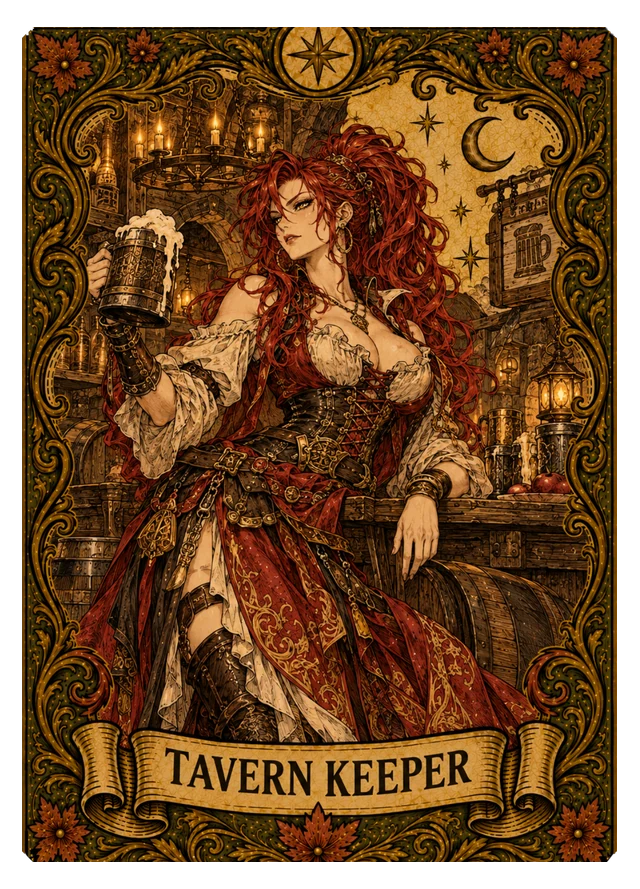
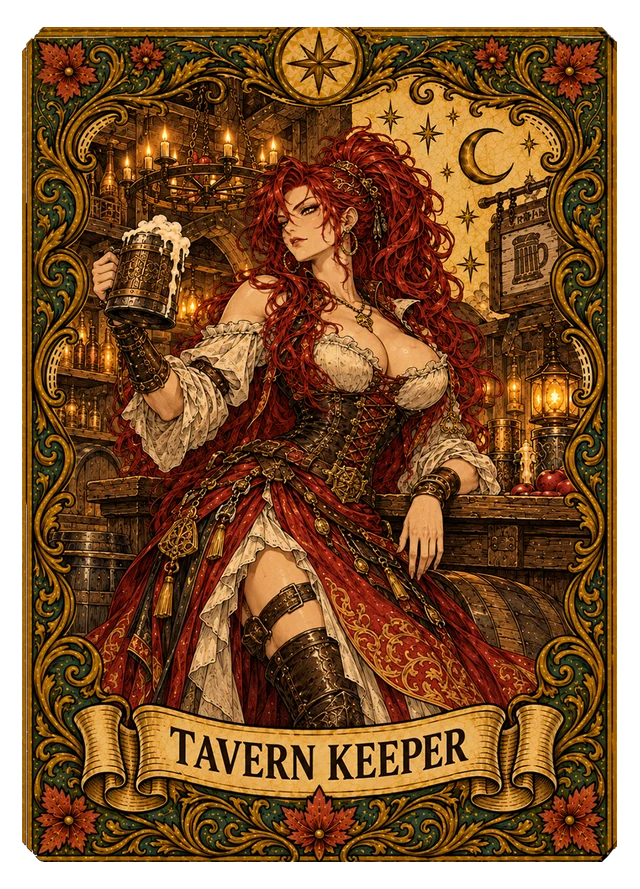
v0.1.33 役「語り部」・酒場の女主人の絵

diff --git a/game/index.html b/game/index.html
@@ -4463,7 +4463,7 @@ img[src*="ゼネラルデビル"]{object-fit:fill!important;}
 </div>
 <script>
 (function(){
-  var A=["エフェクト/アルテマ/アルテマ２.webp", "エフェクト/アルテマ/アルテマ４.webp", "snd/66bdbf996d6cb89f.dat", "snd/a22dc2e6825465bc.dat", "エフェクト/アルテマ/アルテマ１.webp", "エフェクト/幻惑の蝶.webp", "エフェクト/アルテマ/アルテマ６.webp", "snd/d43d4d6e9fcc1be9.dat", "snd/61b5c1a873526a98.dat", "エフェクト/裁きの光.webp", "エフェクト/フェニックスファイア.webp", "エフェクト/アルテマ/アルテマ３.webp", "エフェクト/奇跡の光.webp", "snd/4ab88b62a8894271.dat", "snd/6d933197c4af6542.dat", "エフェクト/ビッグバンアタック.webp", "エフェクト/雷神の怒り.png", "snd/3925a81f83d8717b.dat", "snd/bdfa9e7ff2c87b50.dat", "snd/e9b61d8ccc4d2ce0.dat", "エフェクト/アルテマ/アルテマ５.webp", "エフェクト/メガフレア.png", "魔法/フルボルト.webp", "魔法/ディアンシア.webp", "バトルフィールドパーツ/召喚獣カード裏面png.webp", "snd/f8ff206425289e0a.dat", "魔法/ノクスグラヴィス.webp", "魔法/ヘイスト.webp", "魔法/メテオ.webp", "魔法/アレア・ヤクタ.webp", "魔法/ポイズン.webp", "snd/de97ea20905d2666.dat", "魔法/デス.webp", "魔法/ヴォルト.webp", "snd/c2adf2730c818089.dat", "魔法/ルミナ.webp", "魔法/リザレイヤ.webp", "魔法/リザレク.webp", "エフェクト/絶対零度.png", "魔法/ヴァニシア.webp", "エフェクト/エクスプロージョン.png", "バトルフィールドパーツ_v3/モンスターカード置き場　赤向き.png", "バトルフィールドパーツ_v3/モンスターカード置き場　青向き.png", "snd/9426ddb5687c23c0.dat", "バトルフィールドパーツ_v3/player_monsters.png", "魔法/バイオラパフューム.webp", "UI素材/デッキ編成イメージ.webp", "魔法/グラシア.webp", "snd/7be132eebf812c2a.dat", "バトルフィールドパーツ_v3/enemy_monsters.png", "UI素材/編成/背景.webp", "魔法/ノクターン.webp", "魔法/イグニス.webp", "魔法/パラメディア.webp", "魔法/リザー.webp", "エフェクト/輝きに帰す.png", "バトルフィールドパーツ/マジックカード裏面.webp", "バトルフィールドパーツ_v2_clean/enemy_monsters.png", "バトルフィールドパーツ/画面背景.webp", "魔法/メディア.webp", "エフェクト/振り払い攻撃.png", "エフェクト/爆裂.png", "バトルフィールドパーツ_v3/grave_blue_cropped.webp", "エフェクト/光あれ.png", "エフェクト/ファイガ.png", "snd/84e3430f81b81b60.dat", "バトルフィールドパーツ_v3/crystal_frame_blue_user.webp", "エフェクト/大海嘯.png", "バトルフィールドパーツ_v3/crystal_core_blue_user.png", "バトルフィールドパーツ_v2_clean/player_monsters.png", "バトルフィールドパーツ_v3/crystal_frame_red_user.webp", "エフェクト/アースウォール.png", "バトルフィールドパーツ_v3/grave_red_cropped.webp", "バトルフィールドパーツ/UIフレーム青.webp", "バトルフィールドパーツ_v3/モンスターカードデッキ置き場　赤.webp", "エフェクト/ブリザガ.png", "バトルフィールドパーツ_v2_clean/stage_bg.webp", "バトルフィールドパーツ/召喚獣召喚場所赤.webp", "バトルフィールドパーツ_v3/モンスターカードデッキ置き場　青.webp", "バトルフィールドパーツ/モンスターカード裏面.webp", "バトルフィールドパーツ_v3/crystal_core_red_user　毒状態.png", "UI素材/ダイストレイ.webp", "バトルフィールドパーツ_v3/crystal_core_red_user.png", "バトルフィールドパーツ_v3/crystal_core_red_user毒状態.png", "バトルフィールドパーツ_v3/stage_bg.webp", "バトルフィールドパーツ/UIフレーム赤.webp", "バトルフィールドパーツ/召喚獣召喚場所青.webp", "カード絵_表示用/モンスター/ジュエルフィッシュ.webp", "カード絵_表示用/モンスター/クリスタルドラゴン.webp", "カード絵_表示用/モンスター/デスクラブ.webp", "カード絵_表示用/モンスター/ドラゴンベビー.webp", "エフェクト/ブリザラ.png", "カード絵_表示用/モンスター/メタルドラゴン.webp", "カード絵_表示用/召喚獣/雷帝.webp", "カード絵_表示用/モンスター/アクアキャット.webp", "カード絵_表示用/モンスター/シールドコア.webp", "カード絵_表示用/召喚獣/フェンリル.webp", "カード絵_表示用/召喚獣/シヴァ.webp", "カード絵_表示用/モンスター/ブラックロブスター.webp", "カード絵_表示用/召喚獣/パルテナス.webp", "カード絵_表示用/召喚獣/グリンブルスティ.webp", "カード絵_表示用/モンスター/混沌の竜.webp", "カード絵_表示用/モンスター/ビッグタスク.webp", "カード絵_表示用/モンスター/ダブルヘッド.webp", "カード絵_表示用/モンスター/イージスの盾.webp", "カード絵_表示用/モンスター/スパイダー.webp", "カード絵_表示用/モンスター/人魚.webp", "カード絵_表示用/モンスター/ダイヤ.webp", "カード絵_表示用/モンスター/魔王鯨.webp", "カード絵_表示用/モンスター/ボムバレル.webp", "snd/3dfb76463e4c13d9.dat", "カード絵_表示用/モンスター/槍烏賊.webp", "カード絵_表示用/召喚獣/ガルーダ.webp", "カード絵_表示用/モンスター/鍛冶士.webp", "カード絵_表示用/モンスター/村正.webp", "UI素材/役の掲示板.webp", "snd/bdd6c1deb5c96c95.dat", "カード絵_表示用/モンスター/裁定者の杖.webp", "カード絵_表示用/モンスター/海洋騎士.webp", "カード絵_表示用/モンスター/ヒドラ.webp", "カード絵_表示用/モンスター/イエティ.webp", "カード絵_表示用/モンスター/パラディン.webp", "カード絵_表示用/モンスター/バジリスク.webp", "カード絵_表示用/モンスター/老人.webp", "カード絵_表示用/召喚獣/イフリート.webp", "カード絵_表示用/召喚獣/カーバンクル.webp", "カード絵_表示用/モンスター/スラブ.webp", "カード絵_表示用/モンスター/ロイヤルガード.webp", "カード絵_表示用/モンスター/小隊.webp", "カード絵_表示用/モンスター/ロック.webp", "カード絵_表示用/モンスター/コカトリス.webp", "カード絵_表示用/モンスター/サーベルタイガー.webp", "カード絵_表示用/召喚獣/リヴァイアサン.webp", "カード絵_表示用/モンスター/弓兵.webp", "カード絵_表示用/モンスター/賢者.webp", "カード絵_表示用/モンスター/クイーン.webp", "カード絵_表示用/モンスター/ワイバーンナイト.webp", "カード絵_表示用/モンスター/ビッグマウス.webp", "カード絵_表示用/モンスター/悪魔騎士.webp", "カード絵_表示用/モンスター/コボルト.webp", "カード絵_表示用/モンスター/鋼鉄巨人.webp", "カード絵_表示用/モンスター/スペード.webp", "カード絵_表示用/モンスター/料理人.webp", "カード絵_表示用/モンスター/クラーケン.webp", "カード絵_表示用/モンスター/ドラゴンスレイブ.webp", "カード絵_表示用/召喚獣/バハムート.webp", "カード絵_表示用/モンスター/ラミア.webp", "カード絵_表示用/召喚獣/セイレーン.webp", "カード絵_表示用/召喚獣/フェニックス.webp", "カード絵_表示用/モンスター/ベヒモス.webp", "カード絵_表示用/モンスター/ミミック.webp", "カード絵_表示用/モンスター/ドラゴンソルジャー.webp", "カード絵_表示用/モンスター/グラッジ.webp", "カード絵_表示用/モンスター/侍祭.webp", "カード絵_表示用/モンスター/ゴーレム.webp", "カード絵_表示用/モンスター/ハーピー.webp", "カード絵_表示用/モンスター/王子.webp", "カード絵_表示用/モンスター/ポークフィッシュ.webp", "カード絵_表示用/モンスター/キング.webp", "カード絵_表示用/モンスター/サイクロプス.webp", "カード絵_表示用/モンスター/悪魔.webp", "カード絵_表示用/モンスター/ミノタウロス.webp", "カード絵_表示用/モンスター/ジャック.webp", "カード絵_表示用/モンスター/メガロドン.webp", "カード絵_表示用/召喚獣/タイタン.webp", "エフェクト/フラッシュインパクト.png", "カード絵_表示用/モンスター/ソードフィッシュ.webp", "カード絵_表示用/モンスター/教皇.webp", "カード絵_表示用/モンスター/グリフォン.webp", "カード絵_表示用/モンスター/元老院.webp", "カード絵_表示用/モンスター/ラードフィッシュ.webp", "カード絵_表示用/モンスター/グリーンジャム.webp", "カード絵_表示用/モンスター/シップワーム.webp", "カード絵_表示用/モンスター/ハート.webp", "カード絵_表示用/モンスター/フラワーマンティス.webp", "カード絵_表示用/モンスター/クラブ.webp", "カード絵_表示用/モンスター/用心棒.webp", "カード絵_表示用/モンスター/アイススコーピオン.webp", "カード絵_表示用/モンスター/ヴェアウルフ.webp", "カード絵_表示用/モンスター/狼.webp", "カード絵_表示用/モンスター/モササウルス.webp", "カード絵_表示用/モンスター/スケルトン.webp", "カード絵_表示用/モンスター/騎士.webp", "カード絵_表示用/モンスター/カエル王子.webp", "カード絵_表示用/モンスター/噛みつき貝.webp", "カード絵_表示用/モンスター/サキュバス.webp", "カード絵_表示用/モンスター/ゴッドヘラクレス.webp", "カード絵_表示用/モンスター/ゾンビ.webp", "カード絵_表示用/モンスター/アイシクルトゥース.webp", "カード絵_表示用/モンスター/墓荒らし.webp", "カード絵_表示用/モンスター/木葉鴉.webp", "カード絵_表示用/モンスター/ブラックナイト.webp", "カード絵_表示用/モンスター/パン職人.webp", "カード絵_表示用/モンスター/邪教徒.webp", "カード絵_表示用/モンスター/デュラハン.webp", "カード絵_表示用/モンスター/グリモア.webp", "カード絵_表示用/モンスター/マンティコア.webp", "カード絵_表示用/召喚獣/ディスティ.webp", "カード絵_表示用/モンスター/戦士.webp", "カード絵_表示用/モンスター/運命の双子.webp", "カード絵_表示用/モンスター/宰相.webp", "カード絵_表示用/モンスター/オーク.webp", "カード絵_表示用/モンスター/忍者.webp", "カード絵_表示用/モンスター/浪人.webp", "カード絵_表示用/モンスター/フロッグ.webp", "カード絵_表示用/モンスター/フレイムフライ.webp", "カード絵_表示用/モンスター/スカウト.webp", "カード絵_表示用/モンスター/マイコニド.webp", "カード絵_表示用/モンスター/ブラックゴブリン.webp", "カード絵_表示用/モンスター/モンク僧.webp", "カード絵_表示用/モンスター/僧侶.webp", "カード絵_表示用/モンスター/ドラゴン.webp", "カード絵_表示用/モンスター/ギガス.webp", "カード絵_表示用/モンスター/キメラ.webp", "カード絵_表示用/モンスター/ポセイドン.webp", "カード絵_表示用/モンスター/渡世人.webp", "カード絵_表示用/モンスター/両替商.webp", "カード絵_表示用/モンスター/ゴリアテ.webp", "カード絵_表示用/モンスター/海賊.webp", "カード絵_表示用/モンスター/マンドラゴラ.webp", "カード絵_表示用/モンスター/僧騎士.webp", "カード絵_表示用/モンスター/剣闘士.webp", "カード絵_表示用/モンスター/酒場.webp", "カード絵_表示用/モンスター/キラービー.webp", "カード絵_表示用/モンスター/海藻魚.webp", "カード絵_表示用/モンスター/ユニコーン.webp", "カード絵_表示用/モンスター/装甲海月.webp", "カード絵_表示用/モンスター/雷熊.webp", "カード絵_表示用/モンスター/エルフ.webp", "カード絵_表示用/モンスター/ケルベロス.webp", "カード絵_表示用/モンスター/ヴァンパイア.webp", "カード絵_表示用/モンスター/ゴースト.webp", "カード絵_表示用/モンスター/傭兵.webp", "カード絵_表示用/モンスター/ソードダンサー.webp", "カード絵_表示用/召喚獣/オーディン.webp", "カード絵_表示用/モンスター/アスピス.webp", "カード絵_表示用/モンスター/ナイトメア.webp", "カード絵_表示用/モンスター/吟遊詩人.webp", "カード絵_表示用/モンスター/剣聖.webp", "カード絵_表示用/モンスター/レッドオルカ.webp", "カード絵_表示用/モンスター/トライデントソルジャー.webp", "snd/24fe8a158f450ac9.dat", "カード絵_表示用/モンスター/狂王.webp", "カード絵_表示用/モンスター/蝙蝠.webp", "カード絵_表示用/モンスター/剣士.webp", "カード絵_表示用/モンスター/ワイバーン.webp", "カード絵_表示用/モンスター/アサシン.webp", "カード絵_表示用/モンスター/シーフ.webp", "カード絵_表示用/モンスター/侍.webp", "カード絵_表示用/モンスター/ジョーカー.webp", "カード絵_表示用/モンスター/ホワイトスティングレイ.webp", "カード絵_表示用/モンスター/黒魔道士.webp", "カード絵_表示用/モンスター/ハンタークロウ.webp", "カード絵_表示用/モンスター/聖剣と邪剣.webp", "カード絵_表示用/モンスター/リザードマン.webp", "カード絵_表示用/モンスター/ゴブリン.webp", "カード絵_表示用/モンスター/ゼネラルデビル.webp", "UI素材/役の掲示板_相手側.webp", "カード絵_表示用/モンスター/女傑.webp", "UI素材/編成/革の本.webp", "カード絵_表示用/モンスター/マンイーター.webp", "カード絵_表示用/モンスター/ダークエルフ.webp", "カード絵_表示用/モンスター/ドラグナイト.webp", "エフェクト/サンダガ.png", "カード絵_表示用/モンスター/武器商人.webp", "snd/e41d7b9053eebe59.dat", "snd/b498b06852fb837e.dat", "エフェクト/呪いの炎大.png", "バトルフィールドパーツ_v2_clean/player_beast.png", "バトルフィールドパーツ_v2_clean/enemy_beast.png", "エフェクト/呪いの炎.png", "snd/f42cdec5fecb290b.dat", "snd/7dcea7d0d8c922fb.dat", "UI素材/案内人.webp", "snd/50533caf4a56a23c.dat", "エフェクト/爆発.png", "snd/d3f0be377b3398fe.dat", "バトルフィールドパーツ/墓場青.webp", "エフェクト/コウモリ.png", "snd/9acb984519a54d5a.dat", "エフェクト/召喚.png", "UI素材/編成/紋章_聖遺物.webp", "エフェクト/バイオ.png", "バトルフィールドパーツ/墓場赤.webp", "エフェクト/セイレーンの歌.png", "snd/59c039fbe9b3249f.dat", "snd/223daceb87cd9b54.dat", "snd/4a1e824ac68257e0.dat", "エフェクト/魅了大.png", "エフェクト/魔法陣大.png", "バトルフィールドパーツ/召喚ポイント.webp", "snd/bf54a9b4e24951af.dat", "snd/391476c216cbdfc3.dat", "バトルフィールドパーツ_v3/turn_panel.png", "snd/5e6bb7d9ee87a9f1.dat", "snd/7f94a67555c69c89.dat", "snd/23274fcb86eced08.dat", "snd/92587da5eb7dbd71.dat", "snd/d85f9db258d57ba9.dat", "snd/7600d234921fe85f.dat", "snd/c1f83e2b0225bb59.dat", "UI素材/編成/紋章_召喚獣.webp", "snd/1835c81d91f0b9a4.dat", "snd/94de4b957e9a1169.dat", "UI素材/召喚ダイヤ.webp", "snd/1d9a4b30f46e5c87.dat", "UI素材/編成/紋章_魔族.webp", "UI素材/編成/紋章_汚染海洋生態.webp", "エフェクト/氷撃.png", "UI素材/編成/紋章_竜.webp", "バトルフィールドパーツ_v2_clean/battle_line.png", "snd/c57272c3b6b1b528.dat", "UI素材/編成/紋章_魔法.webp", "snd/746f706b9f258b92.dat", "バトルフィールドパーツ_v2_clean/player_grave.png", "snd/c994c87ee121c801.dat", "UI素材/バトルログ枠.webp", "UI素材/編成/紋章_在野.webp", "バトルフィールドパーツ_v2_clean/enemy_grave.png", "UI素材/編成/紋章_ハイランド王国.webp", "snd/5c5fa5fdb13fde5e.dat", "snd/c8112faba1c41e5d.dat", "snd/96dedfa9f70fe959.dat", "UI素材/編成/紋章_暗黒生態系.webp", "snd/5d247460b823e51f.dat", "クリスタルカードバトル　ロゴ.webp", "snd/114bb9b18528635c.dat", "UI素材/案内人表情9.png", "エフェクト/牙攻撃.png", "UI素材/案内人表情6.png", "UI素材/案内人表情4.png", "エフェクト/爆発大.png", "UI素材/案内人表情8.png", "UI素材/案内人表情7.png", "バトルフィールドパーツ_v3/summon_pt_red.png", "バトルフィールドパーツ_v3/summon_pt_blue.png", "エフェクト/デス.png", "UI素材/案内人表情3.png", "エフェクト/叩きつけ攻撃.png", "UI素材/案内人表情２.png", "snd/8909158ced6cb604.dat", "snd/8fc60c9b90054ba4.dat", "UI素材/案内人表情1.png", "バトルフィールドパーツ_v2_clean/enemy_crystal.png", "snd/146218ef5f2e709c.dat", "UI素材/案内人表情5.png", "snd/926c3771d534e2f1.dat", "snd/3d14f1a2bf0f7147.dat", "バトルフィールドパーツ_v2_clean/win_condition.png", "snd/b091ee1d4706148b.dat", "エフェクト/爆破小.png", "snd/80708684254d0e65.dat", "エフェクト/幻惑.png", "snd/19bbf517de067643.dat", "snd/03125cf14a04d2dc.dat", "snd/318ea614b4c37f56.dat", "バトルフィールドパーツ_v2_clean/player_crystal.png", "バトルフィールドパーツ_v2_clean/icon_help.png", "エフェクト/落下大.png", "エフェクト/アレイズ.png", "ダイスコマ/roll/dice_roll_03.png", "snd/3c08acaad7a8901f.dat", "ダイスコマ/roll/dice_roll_02.png", "バトルフィールドパーツ/ターン情報エリア.webp", "ダイスコマ/dice3.png", "ダイスコマ/roll/dice_roll_04.png", "ダイスコマ/roll/dice_roll_05.png", "ダイスコマ/dice4.png", "snd/f7ba7bd24a2db56a.dat", "バトルフィールドパーツ_v2_clean/enemy_deck.png", "ダイスコマ/roll/dice_roll_06.png", "エフェクト/ファイラ.png", "ダイスコマ/dice2.png", "ダイスコマ/roll/dice_roll_07.png", "ダイスコマ/roll/dice_roll_11.png", "ダイスコマ/roll/dice_roll_09.png", "ダイスコマ/roll/dice_roll_01.png", "ダイスコマ/dice6.png", "ダイスコマ/roll/dice_roll_15.png", "ダイスコマ/dice1.png", "ダイスコマ/roll/dice_roll_08.png", "エフェクト/ゴブリンパンチ.png", "ダイスコマ/roll/dice_roll_12.png", "ダイスコマ/roll/dice_roll_10.png", "ダイスコマ/dice5.png", "ダイスコマ/roll/dice_roll_16.png", "ダイスコマ/roll/dice_roll_13.png", "ダイスコマ/roll/dice_roll_14.png", "エフェクト/サンダー.png", "バトルフィールドパーツ_v3/battle_line.png", "バトルフィールドパーツ_v2_clean/player_deck.png", "snd/d8dc24bd985f10c6.dat", "エフェクト/爪攻撃.png", "snd/71bc404885817485.dat", "snd/4cdaefeb1270d665.dat", "snd/a1a7b726f6ad2a6f.dat", "snd/2c206ef899e4d954.dat", "エフェクト/ロック.png", "snd/e717c5b18648cecd.dat", "snd/0bffd2dd47134231.dat", "snd/8ed8748cbc90d772.dat", "snd/e1f00c74eef33f2f.dat", "snd/efee6ec35f0ad94d.dat", "エフェクト/魔法陣小.png", "snd/d02bddb5f6177e4b.dat", "バトルフィールドパーツ_v2_clean/crystal_core_blue.png", "エフェクト/魅了.png", "エフェクト/ブリザド.png", "snd/96b0ce71fd2efeb1.dat", "バトルフィールドパーツ_v2_clean/turn_info.png", "エフェクト/ケアルラ.png", "バトルフィールドパーツ_v2_clean/crystal_core_red.png", "snd/d5df5526d62e56ad.dat", "snd/1752eb06109842d0.dat", "snd/00868245bd12532f.dat", "snd/91715e6883ba3a8c.dat", "snd/70780db9dd6fa7c8.dat", "snd/a3b1cdc0802f5460.dat", "UI素材/編成/開始.webp", "エフェクト/リジェネ.png", "UI素材/編成/戻る.webp", "snd/e086cd19e4c98a9a.dat", "エフェクト/ファイア.png", "snd/f444964eb80ec578.dat", "snd/0d7bdab5fbd8567c.dat", "snd/72da02efb8e078ce.dat", "snd/d1e0d4f87621658e.dat", "snd/095ea5e77ab118a3.dat", "snd/69b0a26323157872.dat", "snd/72ab36981bbe29c0.dat", "snd/076341c9c6473c8f.dat", "snd/666f81ddc9297d07.dat", "エフェクト/閃光花火中.png", "UI素材/編成/保存.webp", "snd/95c2e281e8071b99.dat", "snd/c7d00ccdf0b1b30f.dat", "snd/909484169f02c910.dat", "エフェクト/ブラッド.png", "snd/e1b4e7407e279a20.dat", "エフェクト/バブル.png", "snd/989b3c3384c7495f.dat", "UI素材/編成/一括解除.webp", "snd/d185ef2868399e47.dat", "snd/5d0be48ce909e1f0.dat", "バトルフィールドパーツ_v2_clean/player_summon_pt.png", "バトルフィールドパーツ_v2_clean/enemy_summon_pt.png", "snd/384b3ba18c4128f9.dat", "エフェクト/閃光花火小.png", "snd/706f6b73ff24b7a1.dat", "エフェクト/紫落下小.png", "エフェクト/紫上昇小.png", "snd/06b75cedac0f9041.dat", "エフェクト/臭い息.png", "エフェクト/ポイゾナ.png", "snd/32455213cfbbd2c2.dat", "snd/bc6cfc79176f8819.dat", "snd/0445769bfdc11752.dat", "エフェクト/ケアル.png", "snd/d20177bb9beede4b.dat", "エフェクト/毒攻撃.png", "エフェクト/斬撃大.png", "UI素材/召喚ダイヤ_小.webp", "エフェクト/フラッシュ上昇.png", "エフェクト/フラッシュ落下.png", "バトルフィールドパーツ_v3/grave_blue.png", "バトルフィールドパーツ_v3/grave_red.png", "snd/d5d9a82572299aae.dat", "エフェクト/HPUP.png", "エフェクト/レイズ.png", "エフェクト/HPダウン.png", "バトルフィールドパーツ_v3/deck_panel.png", "バトルフィールドパーツ_v3/win_panel.png", "バトルフィールドパーツ_v3/panel_gold.png", "バトルフィールドパーツ_v3/action_panel.png", "バトルフィールドパーツ_v3/beast_zone.png", "バトルフィールドパーツ_v3/beast_zone_enemy.png", "エフェクト/斬撃.png", "バトルフィールドパーツ_v2_clean/crystal_crack_red.png", "バトルフィールドパーツ_v2_clean/crystal_crack_blue.png", "バトルフィールドパーツ_v3/crystal_base_red.png", "バトルフィールドパーツ_v3/crystal_base_blue.png"], S=[7950910, 4798984, 4374317, 3344990, 2812130, 2149570, 2144716, 2017726, 1942255, 1886418, 1881622, 1627530, 1577362, 1464192, 1445760, 1329350, 762811, 758595, 732263, 707186, 706538, 683620, 675700, 672546, 636576, 608129, 600892, 600372, 598558, 586804, 578924, 571767, 569800, 554512, 541440, 510932, 509464, 505736, 500834, 496430, 484296, 478751, 478641, 476472, 462498, 456994, 451214, 448156, 440110, 439984, 436634, 429858, 425190, 417052, 411538, 401788, 401644, 401166, 400106, 394380, 388829, 388136, 381128, 380374, 367088, 366758, 365996, 349714, 349430, 344509, 341308, 332941, 332092, 331714, 330844, 327964, 327332, 319668, 315414, 306552, 305604, 300990, 300705, 298149, 296562, 291306, 289128, 288980, 287070, 279130, 278380, 276109, 274280, 273970, 273760, 273366, 270590, 269746, 269374, 268864, 268324, 268180, 267516, 267222, 267050, 265668, 265488, 263500, 262498, 262068, 262059, 262010, 261834, 261628, 261006, 260542, 260352, 259086, 257836, 257786, 257384, 256724, 256164, 255946, 255636, 255574, 255300, 255036, 254878, 254720, 254474, 254400, 254060, 252814, 252738, 252480, 252198, 251802, 251592, 251476, 251420, 251296, 251248, 251138, 250284, 249882, 249796, 249740, 249690, 249422, 249048, 249038, 248974, 248950, 248694, 248404, 248402, 248358, 248280, 248136, 247900, 247852, 247628, 246882, 246874, 246678, 246394, 246320, 246248, 246176, 245988, 245972, 245528, 245402, 245292, 245164, 245080, 244790, 244272, 244246, 244196, 244108, 244072, 244062, 243858, 243722, 243580, 242716, 242708, 242188, 242126, 241746, 241360, 241180, 240900, 240880, 240758, 240500, 240466, 240262, 239876, 239792, 239728, 239628, 239428, 239420, 239360, 239332, 239176, 238550, 238368, 238348, 237750, 237536, 237422, 237106, 236882, 236860, 236514, 235706, 235256, 235200, 234862, 234820, 234792, 234740, 234338, 233964, 233790, 233272, 233236, 232752, 232096, 231858, 231328, 231324, 231178, 230924, 230756, 229140, 228780, 228204, 227230, 226904, 226522, 225832, 224882, 224396, 221962, 221338, 220774, 220340, 219428, 217508, 214252, 212776, 206846, 205078, 204818, 204472, 203942, 203606, 203342, 199666, 197386, 185572, 185572, 178223, 176495, 170749, 165956, 163630, 151091, 140216, 137088, 134041, 131029, 127086, 125446, 120998, 120349, 119924, 118807, 118264, 117629, 115982, 111168, 110967, 109527, 104978, 104630, 103680, 103444, 101718, 101376, 100936, 100224, 98176, 97801, 97174, 96547, 92786, 90905, 90905, 90692, 90278, 89990, 89792, 89628, 89272, 88662, 87936, 87092, 86976, 86693, 85888, 83608, 80600, 80557, 80412, 80247, 80247, 79620, 78688, 78336, 78066, 77739, 75281, 74958, 74446, 74050, 73645, 73048, 72413, 71604, 71482, 70526, 70221, 70105, 69721, 69120, 68962, 68467, 68059, 67081, 66014, 65200, 61439, 60237, 59558, 59362, 59264, 58742, 58304, 57677, 56423, 55877, 53721, 53373, 52203, 51554, 51408, 51316, 50530, 50252, 49976, 49834, 49683, 49527, 48854, 48716, 48711, 48647, 48631, 48603, 48557, 48386, 48324, 48189, 47799, 47734, 47104, 47006, 46736, 46646, 46286, 46277, 45909, 45291, 45174, 44727, 44511, 43461, 42048, 40750, 40123, 38784, 38738, 37965, 37615, 37615, 37440, 35107, 35057, 34688, 33722, 33649, 32979, 32832, 32758, 32663, 32248, 31972, 31972, 31680, 31680, 31680, 31346, 31236, 30847, 29634, 28800, 28027, 27072, 26957, 26496, 26496, 25920, 25920, 25920, 25703, 25703, 25414, 25392, 25344, 25344, 25344, 24179, 22568, 22280, 21941, 21426, 21315, 20688, 18670, 17725, 16128, 16032, 15672, 14186, 14101, 13059, 12963, 12688, 12537, 12537, 12537, 12170, 11783, 11670, 11523, 11102, 9734, 9697, 8129, 8088, 7522, 7379, 7083, 6800, 6100, 5979, 5626, 5131, 4852, 4740, 4472, 2416, 2406, 1346, 1282], T=131094594;
+  var A=["エフェクト/アルテマ/アルテマ２.webp", "エフェクト/アルテマ/アルテマ４.webp", "snd/66bdbf996d6cb89f.dat", "snd/a22dc2e6825465bc.dat", "エフェクト/アルテマ/アルテマ１.webp", "エフェクト/幻惑の蝶.webp", "エフェクト/アルテマ/アルテマ６.webp", "snd/d43d4d6e9fcc1be9.dat", "snd/61b5c1a873526a98.dat", "エフェクト/裁きの光.webp", "エフェクト/フェニックスファイア.webp", "エフェクト/アルテマ/アルテマ３.webp", "エフェクト/奇跡の光.webp", "snd/4ab88b62a8894271.dat", "snd/6d933197c4af6542.dat", "エフェクト/ビッグバンアタック.webp", "エフェクト/雷神の怒り.png", "snd/3925a81f83d8717b.dat", "snd/bdfa9e7ff2c87b50.dat", "snd/e9b61d8ccc4d2ce0.dat", "エフェクト/アルテマ/アルテマ５.webp", "エフェクト/メガフレア.png", "魔法/フルボルト.webp", "魔法/ディアンシア.webp", "バトルフィールドパーツ/召喚獣カード裏面png.webp", "snd/f8ff206425289e0a.dat", "魔法/ノクスグラヴィス.webp", "魔法/ヘイスト.webp", "魔法/メテオ.webp", "魔法/アレア・ヤクタ.webp", "魔法/ポイズン.webp", "snd/de97ea20905d2666.dat", "魔法/デス.webp", "魔法/ヴォルト.webp", "snd/c2adf2730c818089.dat", "魔法/ルミナ.webp", "魔法/リザレイヤ.webp", "魔法/リザレク.webp", "エフェクト/絶対零度.png", "魔法/ヴァニシア.webp", "エフェクト/エクスプロージョン.png", "バトルフィールドパーツ_v3/モンスターカード置き場　赤向き.png", "バトルフィールドパーツ_v3/モンスターカード置き場　青向き.png", "snd/9426ddb5687c23c0.dat", "バトルフィールドパーツ_v3/player_monsters.png", "魔法/バイオラパフューム.webp", "UI素材/デッキ編成イメージ.webp", "魔法/グラシア.webp", "snd/7be132eebf812c2a.dat", "バトルフィールドパーツ_v3/enemy_monsters.png", "UI素材/編成/背景.webp", "魔法/ノクターン.webp", "魔法/イグニス.webp", "魔法/パラメディア.webp", "魔法/リザー.webp", "エフェクト/輝きに帰す.png", "バトルフィールドパーツ/マジックカード裏面.webp", "バトルフィールドパーツ_v2_clean/enemy_monsters.png", "バトルフィールドパーツ/画面背景.webp", "魔法/メディア.webp", "エフェクト/振り払い攻撃.png", "エフェクト/爆裂.png", "バトルフィールドパーツ_v3/grave_blue_cropped.webp", "エフェクト/光あれ.png", "エフェクト/ファイガ.png", "snd/84e3430f81b81b60.dat", "バトルフィールドパーツ_v3/crystal_frame_blue_user.webp", "エフェクト/大海嘯.png", "バトルフィールドパーツ_v3/crystal_core_blue_user.png", "バトルフィールドパーツ_v2_clean/player_monsters.png", "バトルフィールドパーツ_v3/crystal_frame_red_user.webp", "エフェクト/アースウォール.png", "バトルフィールドパーツ_v3/grave_red_cropped.webp", "バトルフィールドパーツ/UIフレーム青.webp", "バトルフィールドパーツ_v3/モンスターカードデッキ置き場　赤.webp", "エフェクト/ブリザガ.png", "バトルフィールドパーツ_v2_clean/stage_bg.webp", "バトルフィールドパーツ/召喚獣召喚場所赤.webp", "バトルフィールドパーツ_v3/モンスターカードデッキ置き場　青.webp", "バトルフィールドパーツ/モンスターカード裏面.webp", "バトルフィールドパーツ_v3/crystal_core_red_user　毒状態.png", "UI素材/ダイストレイ.webp", "バトルフィールドパーツ_v3/crystal_core_red_user.png", "バトルフィールドパーツ_v3/crystal_core_red_user毒状態.png", "バトルフィールドパーツ_v3/stage_bg.webp", "バトルフィールドパーツ/UIフレーム赤.webp", "バトルフィールドパーツ/召喚獣召喚場所青.webp", "カード絵_表示用/モンスター/ジュエルフィッシュ.webp", "カード絵_表示用/モンスター/クリスタルドラゴン.webp", "カード絵_表示用/モンスター/デスクラブ.webp", "カード絵_表示用/モンスター/ドラゴンベビー.webp", "エフェクト/ブリザラ.png", "カード絵_表示用/モンスター/メタルドラゴン.webp", "カード絵_表示用/召喚獣/雷帝.webp", "カード絵_表示用/モンスター/アクアキャット.webp", "カード絵_表示用/モンスター/シールドコア.webp", "カード絵_表示用/召喚獣/フェンリル.webp", "カード絵_表示用/召喚獣/シヴァ.webp", "カード絵_表示用/モンスター/ブラックロブスター.webp", "カード絵_表示用/召喚獣/パルテナス.webp", "カード絵_表示用/召喚獣/グリンブルスティ.webp", "カード絵_表示用/モンスター/混沌の竜.webp", "カード絵_表示用/モンスター/ビッグタスク.webp", "カード絵_表示用/モンスター/ダブルヘッド.webp", "カード絵_表示用/モンスター/イージスの盾.webp", "カード絵_表示用/モンスター/スパイダー.webp", "カード絵_表示用/モンスター/人魚.webp", "カード絵_表示用/モンスター/ダイヤ.webp", "カード絵_表示用/モンスター/魔王鯨.webp", "カード絵_表示用/モンスター/ボムバレル.webp", "snd/3dfb76463e4c13d9.dat", "カード絵_表示用/モンスター/槍烏賊.webp", "カード絵_表示用/召喚獣/ガルーダ.webp", "カード絵_表示用/モンスター/鍛冶士.webp", "カード絵_表示用/モンスター/村正.webp", "UI素材/役の掲示板.webp", "snd/bdd6c1deb5c96c95.dat", "カード絵_表示用/モンスター/裁定者の杖.webp", "カード絵_表示用/モンスター/海洋騎士.webp", "カード絵_表示用/モンスター/ヒドラ.webp", "カード絵_表示用/モンスター/イエティ.webp", "カード絵_表示用/モンスター/パラディン.webp", "カード絵_表示用/モンスター/バジリスク.webp", "カード絵_表示用/モンスター/老人.webp", "カード絵_表示用/召喚獣/イフリート.webp", "カード絵_表示用/召喚獣/カーバンクル.webp", "カード絵_表示用/モンスター/スラブ.webp", "カード絵_表示用/モンスター/ロイヤルガード.webp", "カード絵_表示用/モンスター/小隊.webp", "カード絵_表示用/モンスター/ロック.webp", "カード絵_表示用/モンスター/コカトリス.webp", "カード絵_表示用/モンスター/サーベルタイガー.webp", "カード絵_表示用/召喚獣/リヴァイアサン.webp", "カード絵_表示用/モンスター/酒場.webp", "カード絵_表示用/モンスター/弓兵.webp", "カード絵_表示用/モンスター/賢者.webp", "カード絵_表示用/モンスター/クイーン.webp", "カード絵_表示用/モンスター/ワイバーンナイト.webp", "カード絵_表示用/モンスター/ビッグマウス.webp", "カード絵_表示用/モンスター/悪魔騎士.webp", "カード絵_表示用/モンスター/コボルト.webp", "カード絵_表示用/モンスター/鋼鉄巨人.webp", "カード絵_表示用/モンスター/スペード.webp", "カード絵_表示用/モンスター/料理人.webp", "カード絵_表示用/モンスター/クラーケン.webp", "カード絵_表示用/モンスター/ドラゴンスレイブ.webp", "カード絵_表示用/召喚獣/バハムート.webp", "カード絵_表示用/モンスター/ラミア.webp", "カード絵_表示用/召喚獣/セイレーン.webp", "カード絵_表示用/召喚獣/フェニックス.webp", "カード絵_表示用/モンスター/ベヒモス.webp", "カード絵_表示用/モンスター/ミミック.webp", "カード絵_表示用/モンスター/ドラゴンソルジャー.webp", "カード絵_表示用/モンスター/グラッジ.webp", "カード絵_表示用/モンスター/侍祭.webp", "カード絵_表示用/モンスター/ゴーレム.webp", "カード絵_表示用/モンスター/ハーピー.webp", "カード絵_表示用/モンスター/王子.webp", "カード絵_表示用/モンスター/ポークフィッシュ.webp", "カード絵_表示用/モンスター/キング.webp", "カード絵_表示用/モンスター/サイクロプス.webp", "カード絵_表示用/モンスター/悪魔.webp", "カード絵_表示用/モンスター/ミノタウロス.webp", "カード絵_表示用/モンスター/ジャック.webp", "カード絵_表示用/モンスター/メガロドン.webp", "カード絵_表示用/召喚獣/タイタン.webp", "エフェクト/フラッシュインパクト.png", "カード絵_表示用/モンスター/ソードフィッシュ.webp", "カード絵_表示用/モンスター/教皇.webp", "カード絵_表示用/モンスター/グリフォン.webp", "カード絵_表示用/モンスター/元老院.webp", "カード絵_表示用/モンスター/ラードフィッシュ.webp", "カード絵_表示用/モンスター/グリーンジャム.webp", "カード絵_表示用/モンスター/シップワーム.webp", "カード絵_表示用/モンスター/ハート.webp", "カード絵_表示用/モンスター/フラワーマンティス.webp", "カード絵_表示用/モンスター/クラブ.webp", "カード絵_表示用/モンスター/用心棒.webp", "カード絵_表示用/モンスター/アイススコーピオン.webp", "カード絵_表示用/モンスター/ヴェアウルフ.webp", "カード絵_表示用/モンスター/狼.webp", "カード絵_表示用/モンスター/モササウルス.webp", "カード絵_表示用/モンスター/スケルトン.webp", "カード絵_表示用/モンスター/騎士.webp", "カード絵_表示用/モンスター/カエル王子.webp", "カード絵_表示用/モンスター/噛みつき貝.webp", "カード絵_表示用/モンスター/サキュバス.webp", "カード絵_表示用/モンスター/ゴッドヘラクレス.webp", "カード絵_表示用/モンスター/ゾンビ.webp", "カード絵_表示用/モンスター/アイシクルトゥース.webp", "カード絵_表示用/モンスター/墓荒らし.webp", "カード絵_表示用/モンスター/木葉鴉.webp", "カード絵_表示用/モンスター/ブラックナイト.webp", "カード絵_表示用/モンスター/パン職人.webp", "カード絵_表示用/モンスター/邪教徒.webp", "カード絵_表示用/モンスター/デュラハン.webp", "カード絵_表示用/モンスター/グリモア.webp", "カード絵_表示用/モンスター/マンティコア.webp", "カード絵_表示用/召喚獣/ディスティ.webp", "カード絵_表示用/モンスター/戦士.webp", "カード絵_表示用/モンスター/運命の双子.webp", "カード絵_表示用/モンスター/宰相.webp", "カード絵_表示用/モンスター/オーク.webp", "カード絵_表示用/モンスター/忍者.webp", "カード絵_表示用/モンスター/浪人.webp", "カード絵_表示用/モンスター/フロッグ.webp", "カード絵_表示用/モンスター/フレイムフライ.webp", "カード絵_表示用/モンスター/スカウト.webp", "カード絵_表示用/モンスター/マイコニド.webp", "カード絵_表示用/モンスター/ブラックゴブリン.webp", "カード絵_表示用/モンスター/モンク僧.webp", "カード絵_表示用/モンスター/僧侶.webp", "カード絵_表示用/モンスター/ドラゴン.webp", "カード絵_表示用/モンスター/ギガス.webp", "カード絵_表示用/モンスター/キメラ.webp", "カード絵_表示用/モンスター/ポセイドン.webp", "カード絵_表示用/モンスター/渡世人.webp", "カード絵_表示用/モンスター/両替商.webp", "カード絵_表示用/モンスター/ゴリアテ.webp", "カード絵_表示用/モンスター/海賊.webp", "カード絵_表示用/モンスター/マンドラゴラ.webp", "カード絵_表示用/モンスター/僧騎士.webp", "カード絵_表示用/モンスター/剣闘士.webp", "カード絵_表示用/モンスター/キラービー.webp", "カード絵_表示用/モンスター/海藻魚.webp", "カード絵_表示用/モンスター/ユニコーン.webp", "カード絵_表示用/モンスター/装甲海月.webp", "カード絵_表示用/モンスター/雷熊.webp", "カード絵_表示用/モンスター/エルフ.webp", "カード絵_表示用/モンスター/ケルベロス.webp", "カード絵_表示用/モンスター/ヴァンパイア.webp", "カード絵_表示用/モンスター/ゴースト.webp", "カード絵_表示用/モンスター/傭兵.webp", "カード絵_表示用/モンスター/ソードダンサー.webp", "カード絵_表示用/召喚獣/オーディン.webp", "カード絵_表示用/モンスター/アスピス.webp", "カード絵_表示用/モンスター/ナイトメア.webp", "カード絵_表示用/モンスター/吟遊詩人.webp", "カード絵_表示用/モンスター/剣聖.webp", "カード絵_表示用/モンスター/レッドオルカ.webp", "カード絵_表示用/モンスター/トライデントソルジャー.webp", "snd/24fe8a158f450ac9.dat", "カード絵_表示用/モンスター/狂王.webp", "カード絵_表示用/モンスター/蝙蝠.webp", "カード絵_表示用/モンスター/剣士.webp", "カード絵_表示用/モンスター/ワイバーン.webp", "カード絵_表示用/モンスター/アサシン.webp", "カード絵_表示用/モンスター/シーフ.webp", "カード絵_表示用/モンスター/侍.webp", "カード絵_表示用/モンスター/ジョーカー.webp", "カード絵_表示用/モンスター/ホワイトスティングレイ.webp", "カード絵_表示用/モンスター/黒魔道士.webp", "カード絵_表示用/モンスター/ハンタークロウ.webp", "カード絵_表示用/モンスター/聖剣と邪剣.webp", "カード絵_表示用/モンスター/リザードマン.webp", "カード絵_表示用/モンスター/ゴブリン.webp", "カード絵_表示用/モンスター/ゼネラルデビル.webp", "UI素材/役の掲示板_相手側.webp", "カード絵_表示用/モンスター/女傑.webp", "UI素材/編成/革の本.webp", "カード絵_表示用/モンスター/マンイーター.webp", "カード絵_表示用/モンスター/ダークエルフ.webp", "カード絵_表示用/モンスター/ドラグナイト.webp", "エフェクト/サンダガ.png", "カード絵_表示用/モンスター/武器商人.webp", "snd/e41d7b9053eebe59.dat", "snd/b498b06852fb837e.dat", "エフェクト/呪いの炎大.png", "バトルフィールドパーツ_v2_clean/player_beast.png", "バトルフィールドパーツ_v2_clean/enemy_beast.png", "エフェクト/呪いの炎.png", "snd/f42cdec5fecb290b.dat", "snd/7dcea7d0d8c922fb.dat", "UI素材/案内人.webp", "snd/50533caf4a56a23c.dat", "エフェクト/爆発.png", "snd/d3f0be377b3398fe.dat", "バトルフィールドパーツ/墓場青.webp", "エフェクト/コウモリ.png", "snd/9acb984519a54d5a.dat", "エフェクト/召喚.png", "UI素材/編成/紋章_聖遺物.webp", "エフェクト/バイオ.png", "バトルフィールドパーツ/墓場赤.webp", "エフェクト/セイレーンの歌.png", "snd/59c039fbe9b3249f.dat", "snd/223daceb87cd9b54.dat", "snd/4a1e824ac68257e0.dat", "エフェクト/魅了大.png", "エフェクト/魔法陣大.png", "バトルフィールドパーツ/召喚ポイント.webp", "snd/bf54a9b4e24951af.dat", "snd/391476c216cbdfc3.dat", "バトルフィールドパーツ_v3/turn_panel.png", "snd/5e6bb7d9ee87a9f1.dat", "snd/7f94a67555c69c89.dat", "snd/23274fcb86eced08.dat", "snd/92587da5eb7dbd71.dat", "snd/d85f9db258d57ba9.dat", "snd/7600d234921fe85f.dat", "snd/c1f83e2b0225bb59.dat", "UI素材/編成/紋章_召喚獣.webp", "snd/1835c81d91f0b9a4.dat", "snd/94de4b957e9a1169.dat", "UI素材/召喚ダイヤ.webp", "snd/1d9a4b30f46e5c87.dat", "UI素材/編成/紋章_魔族.webp", "UI素材/編成/紋章_汚染海洋生態.webp", "エフェクト/氷撃.png", "UI素材/編成/紋章_竜.webp", "バトルフィールドパーツ_v2_clean/battle_line.png", "snd/c57272c3b6b1b528.dat", "UI素材/編成/紋章_魔法.webp", "snd/746f706b9f258b92.dat", "バトルフィールドパーツ_v2_clean/player_grave.png", "snd/c994c87ee121c801.dat", "UI素材/バトルログ枠.webp", "UI素材/編成/紋章_在野.webp", "バトルフィールドパーツ_v2_clean/enemy_grave.png", "UI素材/編成/紋章_ハイランド王国.webp", "snd/5c5fa5fdb13fde5e.dat", "snd/c8112faba1c41e5d.dat", "snd/96dedfa9f70fe959.dat", "UI素材/編成/紋章_暗黒生態系.webp", "snd/5d247460b823e51f.dat", "クリスタルカードバトル　ロゴ.webp", "snd/114bb9b18528635c.dat", "UI素材/案内人表情9.png", "エフェクト/牙攻撃.png", "UI素材/案内人表情6.png", "UI素材/案内人表情4.png", "エフェクト/爆発大.png", "UI素材/案内人表情8.png", "UI素材/案内人表情7.png", "バトルフィールドパーツ_v3/summon_pt_red.png", "バトルフィールドパーツ_v3/summon_pt_blue.png", "エフェクト/デス.png", "UI素材/案内人表情3.png", "エフェクト/叩きつけ攻撃.png", "UI素材/案内人表情２.png", "snd/8909158ced6cb604.dat", "snd/8fc60c9b90054ba4.dat", "UI素材/案内人表情1.png", "バトルフィールドパーツ_v2_clean/enemy_crystal.png", "snd/146218ef5f2e709c.dat", "UI素材/案内人表情5.png", "snd/926c3771d534e2f1.dat", "snd/3d14f1a2bf0f7147.dat", "バトルフィールドパーツ_v2_clean/win_condition.png", "snd/b091ee1d4706148b.dat", "エフェクト/爆破小.png", "snd/80708684254d0e65.dat", "エフェクト/幻惑.png", "snd/19bbf517de067643.dat", "snd/03125cf14a04d2dc.dat", "snd/318ea614b4c37f56.dat", "バトルフィールドパーツ_v2_clean/player_crystal.png", "バトルフィールドパーツ_v2_clean/icon_help.png", "エフェクト/落下大.png", "エフェクト/アレイズ.png", "ダイスコマ/roll/dice_roll_03.png", "snd/3c08acaad7a8901f.dat", "ダイスコマ/roll/dice_roll_02.png", "バトルフィールドパーツ/ターン情報エリア.webp", "ダイスコマ/dice3.png", "ダイスコマ/roll/dice_roll_04.png", "ダイスコマ/roll/dice_roll_05.png", "ダイスコマ/dice4.png", "snd/f7ba7bd24a2db56a.dat", "バトルフィールドパーツ_v2_clean/enemy_deck.png", "ダイスコマ/roll/dice_roll_06.png", "エフェクト/ファイラ.png", "ダイスコマ/dice2.png", "ダイスコマ/roll/dice_roll_07.png", "ダイスコマ/roll/dice_roll_11.png", "ダイスコマ/roll/dice_roll_09.png", "ダイスコマ/roll/dice_roll_01.png", "ダイスコマ/dice6.png", "ダイスコマ/roll/dice_roll_15.png", "ダイスコマ/dice1.png", "ダイスコマ/roll/dice_roll_08.png", "エフェクト/ゴブリンパンチ.png", "ダイスコマ/roll/dice_roll_12.png", "ダイスコマ/roll/dice_roll_10.png", "ダイスコマ/dice5.png", "ダイスコマ/roll/dice_roll_16.png", "ダイスコマ/roll/dice_roll_13.png", "ダイスコマ/roll/dice_roll_14.png", "エフェクト/サンダー.png", "バトルフィールドパーツ_v3/battle_line.png", "バトルフィールドパーツ_v2_clean/player_deck.png", "snd/d8dc24bd985f10c6.dat", "エフェクト/爪攻撃.png", "snd/71bc404885817485.dat", "snd/4cdaefeb1270d665.dat", "snd/a1a7b726f6ad2a6f.dat", "snd/2c206ef899e4d954.dat", "エフェクト/ロック.png", "snd/e717c5b18648cecd.dat", "snd/0bffd2dd47134231.dat", "snd/8ed8748cbc90d772.dat", "snd/e1f00c74eef33f2f.dat", "snd/efee6ec35f0ad94d.dat", "エフェクト/魔法陣小.png", "snd/d02bddb5f6177e4b.dat", "バトルフィールドパーツ_v2_clean/crystal_core_blue.png", "エフェクト/魅了.png", "エフェクト/ブリザド.png", "snd/96b0ce71fd2efeb1.dat", "バトルフィールドパーツ_v2_clean/turn_info.png", "エフェクト/ケアルラ.png", "バトルフィールドパーツ_v2_clean/crystal_core_red.png", "snd/d5df5526d62e56ad.dat", "snd/1752eb06109842d0.dat", "snd/00868245bd12532f.dat", "snd/91715e6883ba3a8c.dat", "snd/70780db9dd6fa7c8.dat", "snd/a3b1cdc0802f5460.dat", "UI素材/編成/開始.webp", "エフェクト/リジェネ.png", "UI素材/編成/戻る.webp", "snd/e086cd19e4c98a9a.dat", "エフェクト/ファイア.png", "snd/f444964eb80ec578.dat", "snd/0d7bdab5fbd8567c.dat", "snd/72da02efb8e078ce.dat", "snd/d1e0d4f87621658e.dat", "snd/095ea5e77ab118a3.dat", "snd/69b0a26323157872.dat", "snd/72ab36981bbe29c0.dat", "snd/076341c9c6473c8f.dat", "snd/666f81ddc9297d07.dat", "エフェクト/閃光花火中.png", "UI素材/編成/保存.webp", "snd/95c2e281e8071b99.dat", "snd/c7d00ccdf0b1b30f.dat", "snd/909484169f02c910.dat", "エフェクト/ブラッド.png", "snd/e1b4e7407e279a20.dat", "エフェクト/バブル.png", "snd/989b3c3384c7495f.dat", "UI素材/編成/一括解除.webp", "snd/d185ef2868399e47.dat", "snd/5d0be48ce909e1f0.dat", "バトルフィールドパーツ_v2_clean/player_summon_pt.png", "バトルフィールドパーツ_v2_clean/enemy_summon_pt.png", "snd/384b3ba18c4128f9.dat", "エフェクト/閃光花火小.png", "snd/706f6b73ff24b7a1.dat", "エフェクト/紫落下小.png", "エフェクト/紫上昇小.png", "snd/06b75cedac0f9041.dat", "エフェクト/臭い息.png", "エフェクト/ポイゾナ.png", "snd/32455213cfbbd2c2.dat", "snd/bc6cfc79176f8819.dat", "snd/0445769bfdc11752.dat", "エフェクト/ケアル.png", "snd/d20177bb9beede4b.dat", "エフェクト/毒攻撃.png", "エフェクト/斬撃大.png", "UI素材/召喚ダイヤ_小.webp", "エフェクト/フラッシュ上昇.png", "エフェクト/フラッシュ落下.png", "バトルフィールドパーツ_v3/grave_blue.png", "バトルフィールドパーツ_v3/grave_red.png", "snd/d5d9a82572299aae.dat", "エフェクト/HPUP.png", "エフェクト/レイズ.png", "エフェクト/HPダウン.png", "バトルフィールドパーツ_v3/deck_panel.png", "バトルフィールドパーツ_v3/win_panel.png", "バトルフィールドパーツ_v3/panel_gold.png", "バトルフィールドパーツ_v3/action_panel.png", "バトルフィールドパーツ_v3/beast_zone.png", "バトルフィールドパーツ_v3/beast_zone_enemy.png", "エフェクト/斬撃.png", "バトルフィールドパーツ_v2_clean/crystal_crack_red.png", "バトルフィールドパーツ_v2_clean/crystal_crack_blue.png", "バトルフィールドパーツ_v3/crystal_base_red.png", "バトルフィールドパーツ_v3/crystal_base_blue.png"], S=[7950910, 4798984, 4374317, 3344990, 2812130, 2149570, 2144716, 2017726, 1942255, 1886418, 1881622, 1627530, 1577362, 1464192, 1445760, 1329350, 762811, 758595, 732263, 707186, 706538, 683620, 675700, 672546, 636576, 608129, 600892, 600372, 598558, 586804, 578924, 571767, 569800, 554512, 541440, 510932, 509464, 505736, 500834, 496430, 484296, 478751, 478641, 476472, 462498, 456994, 451214, 448156, 440110, 439984, 436634, 429858, 425190, 417052, 411538, 401788, 401644, 401166, 400106, 394380, 388829, 388136, 381128, 380374, 367088, 366758, 365996, 349714, 349430, 344509, 341308, 332941, 332092, 331714, 330844, 327964, 327332, 319668, 315414, 306552, 305604, 300990, 300705, 298149, 296562, 291306, 289128, 288980, 287070, 279130, 278380, 276109, 274280, 273970, 273760, 273366, 270590, 269746, 269374, 268864, 268324, 268180, 267516, 267222, 267050, 265668, 265488, 263500, 262498, 262068, 262059, 262010, 261834, 261628, 261006, 260542, 260352, 259086, 257836, 257786, 257384, 256724, 256164, 255946, 255636, 255574, 255300, 255036, 254878, 254720, 254474, 254400, 254060, 253694, 252814, 252738, 252480, 252198, 251802, 251592, 251476, 251420, 251296, 251248, 251138, 250284, 249882, 249796, 249740, 249690, 249422, 249048, 249038, 248974, 248950, 248694, 248404, 248402, 248358, 248280, 248136, 247900, 247852, 247628, 246882, 246874, 246678, 246394, 246320, 246248, 246176, 245988, 245972, 245528, 245402, 245292, 245164, 245080, 244790, 244272, 244246, 244196, 244108, 244072, 244062, 243858, 243722, 243580, 242716, 242708, 242188, 242126, 241746, 241360, 241180, 240900, 240880, 240758, 240500, 240466, 240262, 239876, 239792, 239728, 239628, 239428, 239420, 239360, 239332, 239176, 238550, 238368, 238348, 237750, 237536, 237422, 237106, 236882, 236860, 236514, 235706, 235256, 235200, 234820, 234792, 234740, 234338, 233964, 233790, 233272, 233236, 232752, 232096, 231858, 231328, 231324, 231178, 230924, 230756, 229140, 228780, 228204, 227230, 226904, 226522, 225832, 224882, 224396, 221962, 221338, 220774, 220340, 219428, 217508, 214252, 212776, 206846, 205078, 204818, 204472, 203942, 203606, 203342, 199666, 197386, 185572, 185572, 178223, 176495, 170749, 165956, 163630, 151091, 140216, 137088, 134041, 131029, 127086, 125446, 120998, 120349, 119924, 118807, 118264, 117629, 115982, 111168, 110967, 109527, 104978, 104630, 103680, 103444, 101718, 101376, 100936, 100224, 98176, 97801, 97174, 96547, 92786, 90905, 90905, 90692, 90278, 89990, 89792, 89628, 89272, 88662, 87936, 87092, 86976, 86693, 85888, 83608, 80600, 80557, 80412, 80247, 80247, 79620, 78688, 78336, 78066, 77739, 75281, 74958, 74446, 74050, 73645, 73048, 72413, 71604, 71482, 70526, 70221, 70105, 69721, 69120, 68962, 68467, 68059, 67081, 66014, 65200, 61439, 60237, 59558, 59362, 59264, 58742, 58304, 57677, 56423, 55877, 53721, 53373, 52203, 51554, 51408, 51316, 50530, 50252, 49976, 49834, 49683, 49527, 48854, 48716, 48711, 48647, 48631, 48603, 48557, 48386, 48324, 48189, 47799, 47734, 47104, 47006, 46736, 46646, 46286, 46277, 45909, 45291, 45174, 44727, 44511, 43461, 42048, 40750, 40123, 38784, 38738, 37965, 37615, 37615, 37440, 35107, 35057, 34688, 33722, 33649, 32979, 32832, 32758, 32663, 32248, 31972, 31972, 31680, 31680, 31680, 31346, 31236, 30847, 29634, 28800, 28027, 27072, 26957, 26496, 26496, 25920, 25920, 25920, 25703, 25703, 25414, 25392, 25344, 25344, 25344, 24179, 22568, 22280, 21941, 21426, 21315, 20688, 18670, 17725, 16128, 16032, 15672, 14186, 14101, 13059, 12963, 12688, 12537, 12537, 12537, 12170, 11783, 11670, 11523, 11102, 9734, 9697, 8129, 8088, 7522, 7379, 7083, 6800, 6100, 5979, 5626, 5131, 4852, 4740, 4472, 2416, 2406, 1346, 1282], T=131113426;
   var got=0, i=0, live=0, done=0, fail=0, bar=document.getElementById('pl-bar'), txt=document.getElementById('pl-text');
   function show(){ var p=Math.min(100,Math.floor(got/T*100)); bar.style.width=p+'%'; txt.textContent='絵と音を読み込み中… '+p+'%'; }
   function finish(){ txt.textContent='準備ができました'; bar.style.width='100%';
@@ -12565,6 +12565,8 @@ const EXTRA_ROLES=[
    meaning:'海は恵みをくれる。そして、同じ手で命を奪う。',desc:'海の男（海賊・海洋騎士・ポセイドン・トライデントソルジャー）が2人以上場にいて、相手の場に汚染海洋生態系の大型がいる。場にいる間、海の男の攻撃 +60。',hint:'小舟の上の男たちが、海の巨影を見下ろす'},
   {id:'xKaeruMinato',name:'帰る港',reading:'カエルミナト',cards:[['pirate','oceanknight'],['tavern']],
    meaning:'どんな荒くれも、酒場の灯りを見れば帰ってくる。',desc:'海賊か海洋騎士と、酒場の女主人が同時に場にいる。自分の番の始めに、海の男のHP +20。',hint:'港の酒場に、灯りがともる'},
+  {id:'xKataribe',name:'語り部',reading:'カタリベ',cards:[['tavern'],['bard']],
+   meaning:'物語が終わりに近づくほど、神々の話は大きくなる。',desc:'酒場の女主人と吟遊詩人が同時に場にいる。自分と相手のデッキの残りの合計が少ないほど、おたがいの召喚獣の攻撃が上がる（合計48枚で±0、0枚で2倍）。',hint:'酒場の片隅で、詩人が神々の戦いを語り始める'},
   {id:'xJingi',name:'仁義',reading:'ジンギ',cards:[['yakuza'],['yojimbo']],
    meaning:'賽の目は裏切っても、筋は裏切らない。',desc:'渡世人と用心棒が同時に場にいる。渡世人の丁半が外れ（半）でも、用心棒が筋を通して半分の攻撃が入る。',hint:'賭場の入口に、用心棒が立つ'},
   {id:'xMakanai',name:'まかない',reading:'マカナイ',cards:[['aquacat'],['cook']],once:{healAllies:60},
@@ -24117,6 +24119,34 @@ function dqRun(){
   };
 })();
 
+// ===== 語り部（2026-10-11 隆基「酒場×吟遊詩人＝語り部。相手と自分の手札の合計数が少ないほど、お互いの召喚獣の攻撃力が増大」）=====
+// 手札＝デッキ。どちらかの場で成立していれば、両方の召喚獣に効く。合計48枚で×1、0枚で×2
+function kataribeMult(){
+  try{
+    if(!G||!G.p||!G.e) return 1;
+    const r=EXTRA_ROLES.find(x=>x.id==='xKataribe');
+    if(!r||!(extraRoleHolds('p',r)||extraRoleHolds('e',r))) return 1;
+    const n=G.p.deck.length+G.e.deck.length;
+    return 1+Math.max(0,Math.min(1,(48-n)/48));
+  }catch(e){ return 1; }
+}
+(function installKataribe(){
+  const cb=calcBeastAtk;
+  calcBeastAtk=function(side,bDef){
+    const a=cb.apply(this,arguments);
+    if(!bDef||bDef.id==='odin') return a;
+    const k=kataribeMult();
+    return k>1?Math.round(a*k):a;
+  };
+  // 召喚獣が動く時に、一言だけ（同じ倍率では繰り返さない）
+  const kr=applyKindRoleRegen;
+  applyKindRoleRegen=function(side){
+    const r=kr.apply(this,arguments);
+    try{ const k=kataribeMult(); if(k>1){ const t=Math.round(k*100)/100; if(G._kataribeLast!==t){ G._kataribeLast=t; log('【語り部】残りの頁が少なくなり、神々の話が大きくなる——召喚獣の攻撃 ×'+t+'（デッキ残り 計'+(G.p.deck.length+G.e.deck.length)+'枚）','gold'); } } }catch(e){}
+    return r;
+  };
+})();
+
 </script>
 
 <style id="public-test-badge">
@@ -24124,10 +24154,10 @@ function dqRun(){
 #pt-badge span{background:rgba(10,16,28,.72);color:#e9d9b0;padding:4px 8px;border-radius:4px;border:1px solid rgba(233,217,176,.35)}
 #pt-badge a{background:#c99b3c;color:#14100a;text-decoration:none;font-weight:700;padding:4px 9px;border-radius:4px}
 </style>
-<div id="pt-badge"><span>開発中・無料テスト版 v0.1.32</span><a id="pt-report" href="#" target="_blank" rel="noopener">感想・不具合を送る</a><a id="pt-x" href="https://x.com/intent/post?text=%E3%82%AF%E3%83%AA%E3%82%B9%E3%82%BF%E3%83%AB%E3%82%AB%E3%83%BC%E3%83%89%E3%83%90%E3%83%88%E3%83%AB%EF%BC%88%E7%84%A1%E6%96%99%E3%83%86%E3%82%B9%E3%83%88%E7%89%88%20v0.1.32%EF%BC%89%E3%82%92%E9%81%8A%E3%82%93%E3%81%A0%EF%BC%81%0A&hashtags=CCB%E3%83%86%E3%82%B9%E3%83%88%E3%83%97%E3%83%AC%E3%82%A4" target="_blank" rel="noopener">Xで感想を送る</a></div>
+<div id="pt-badge"><span>開発中・無料テスト版 v0.1.33</span><a id="pt-report" href="#" target="_blank" rel="noopener">感想・不具合を送る</a><a id="pt-x" href="https://x.com/intent/post?text=%E3%82%AF%E3%83%AA%E3%82%B9%E3%82%BF%E3%83%AB%E3%82%AB%E3%83%BC%E3%83%89%E3%83%90%E3%83%88%E3%83%AB%EF%BC%88%E7%84%A1%E6%96%99%E3%83%86%E3%82%B9%E3%83%88%E7%89%88%20v0.1.33%EF%BC%89%E3%82%92%E9%81%8A%E3%82%93%E3%81%A0%EF%BC%81%0A&hashtags=CCB%E3%83%86%E3%82%B9%E3%83%88%E3%83%97%E3%83%AC%E3%82%A4" target="_blank" rel="noopener">Xで感想を送る</a></div>
 <script>
 (function(){
-  var FORM="", PRE={}, V="0.1.32";
+  var FORM="", PRE={}, V="0.1.33";
   var a=document.getElementById('pt-report');
   if(!FORM){ a.style.display='none'; return; }
   function where(){

diff --git a/index.html b/index.html
@@ -16,14 +16,14 @@ h2{font-size:17px;margin:0 0 8px;color:var(--gold)}ul,ol{margin:0;padding-left:1
 .note{font-size:14px;color:var(--sub);margin:0}footer{text-align:center;font-size:12px;color:var(--sub);margin-top:24px}
 </style></head><body><main>
 <img class="logo" src="game/クリスタルカードバトル　ロゴ.webp" alt="クリスタルカードバトル">
-<div class="tag">開発中・無料テスト版 v0.1.32</div>
+<div class="tag">開発中・無料テスト版 v0.1.33</div>
 <p class="lead">ダイスとカードで、一戦ごとに物語が生まれる対戦カードゲーム。</p>
-<div class="btns"><a class="btn" href="game/">ゲームを遊ぶ</a><a class="btn ghost" href="https://x.com/intent/post?text=%E3%82%AF%E3%83%AA%E3%82%B9%E3%82%BF%E3%83%AB%E3%82%AB%E3%83%BC%E3%83%89%E3%83%90%E3%83%88%E3%83%AB%EF%BC%88%E7%84%A1%E6%96%99%E3%83%86%E3%82%B9%E3%83%88%E7%89%88%20v0.1.32%EF%BC%89%E3%82%92%E9%81%8A%E3%82%93%E3%81%A0%EF%BC%81%0A&hashtags=CCB%E3%83%86%E3%82%B9%E3%83%88%E3%83%97%E3%83%AC%E3%82%A4" target="_blank" rel="noopener">Xで感想を送る</a></div>
+<div class="btns"><a class="btn" href="game/">ゲームを遊ぶ</a><a class="btn ghost" href="https://x.com/intent/post?text=%E3%82%AF%E3%83%AA%E3%82%B9%E3%82%BF%E3%83%AB%E3%82%AB%E3%83%BC%E3%83%89%E3%83%90%E3%83%88%E3%83%AB%EF%BC%88%E7%84%A1%E6%96%99%E3%83%86%E3%82%B9%E3%83%88%E7%89%88%20v0.1.33%EF%BC%89%E3%82%92%E9%81%8A%E3%82%93%E3%81%A0%EF%BC%81%0A&hashtags=CCB%E3%83%86%E3%82%B9%E3%83%88%E3%83%97%E3%83%AC%E3%82%A4" target="_blank" rel="noopener">Xで感想を送る</a></div>
 <section><h2>はじめての人へ</h2><ol><li>「ゲームを遊ぶ」を押す。最初の読み込みに少し時間がかかる。</li><li>はじめては、タイトル画面の「チュートリアル」がおすすめ。案内人が流れを教えてくれる。</li><li>慣れたら「案内人と一局」で対戦。デッキ編成でカードを選んで「開始」を押せば、自分のデッキで戦える。</li><li>自分の番は、カードを引く → モンスターを出す・攻撃する・魔法を使う。攻撃は、自分のモンスターを引っ張って相手に重ねて離すだけでもできる。結果はダイスが決める。自分に返ってくることもある。</li><li>カードが揃うと「役」ができて、効果が付く。何が起きたかは、画面中央のウインドウと右側のバトルログに出る。</li></ol></section>
 <section><h2>勝ち負け</h2><ul><li>相手のクリスタルを壊す</li><li>相手の召喚獣3体を全滅させる</li><li>相手のモンスターが尽きる（デッキと場のモンスターが全部墓場へ）</li></ul></section>
 <section><h2>遊べる環境</h2><ul><li>パソコンのChrome（推奨）。音が出るので、音量に注意。</li><li>スマホ・タブレットは、まだ確認していない。</li></ul></section>
 <section><h2>分かっている不具合</h2><ul><li>はじめて開いた時の読み込みに時間がかかる（読み込み画面で進み具合が出る）。2回目からは速い。</li></ul></section>
-<section><h2>更新内容</h2><ul><li><b>v0.1.32</b>（2026-10-11）海に生きる男達の役を7つ追加（海の男達・私掠免許・宿敵・海兵隊・艦隊出撃・母なる海に挑む・帰る港）。吟遊詩人のカード絵を新しくした。</li><li><b>v0.1.31</b>（2026-10-11）汚染海洋生態系を主軸にする役を8つ追加（汚れた潮・赤潮・深海の王国・海底の罠・藻の森・船底の穴・海獣の天敵・豚魚の群れ）。深海の鋏・海の槍騎兵・泡の行方・大喰らいを強化。おすすめデッキに「怪魚型」。</li><li><b>v0.1.30</b>（2026-10-11）新しい役「冥府魔道」（浪人×渡世人×用心棒）：自分のデッキから3枚を墓場へ送り、三人の攻撃とHPを大きく上げる。</li><li><b>v0.1.29</b>（2026-10-11）新カード14枚の絵が出ていなかったのを直した。</li><li><b>v0.1.28</b>（2026-10-11）新カード14枚：在野にシーフ・パン職人・モンク僧・吟遊詩人・浪人・渡世人・酒場の女主人、汚染海洋生態系にアクアキャット・シップワーム・ビッグタスク・ポークフィッシュ・噛みつき貝・海藻魚・装甲海月。役を6つ追加。</li><li><b>v0.1.27</b>（2026-10-11）お知らせウインドウをバトルラインの上へ。AIとの対戦では、相手の正体や狙いを試合中に明かさないようにした。</li><li><b>v0.1.26</b>（2026-10-10）バトルラインの1行の知らせをやめて、ドラクエ風のウインドウにまとめた（役の掲示板は今まで通り）。</li><li><b>v0.1.25</b>（2026-10-10）ドラクエ風のお知らせウインドウ：誰が何をして何が起きたかを、画面下に文で出すようにした。</li><li><b>v0.1.24</b>（2026-10-10）試合後の結果画面に「相手の手の内を見る」：相手のデッキ・狙い・出番のなかったカードが見られる。</li><li><b>v0.1.23</b>（2026-10-10）獣断ち派に新メンバー「変身殺し」：変身の材料を全体攻撃でまとめて崩し、墓場を奪って復活させない。</li><li><b>v0.1.22</b>（2026-10-10）新しいAI派閥「変身愛好家」：変身の材料ばかりでデッキを組み、変身が起きると大喜びする。</li><li><b>v0.1.21</b>（2026-10-10）新しいAI派閥「荒波の海賊団」：汚染海洋生態系で組み、クリスタルを豪快に狙う。</li><li><b>v0.1.20</b>（2026-10-10）闇の商売の輪：武器商人→両替商→墓荒らし→武器商人。倒れると、輪の次の者がデッキから後を継ぐ。</li><li><b>v0.1.19</b>（2026-10-10）自分のモンスターを引っ張って、攻撃したい相手に重ねて離すと攻撃できるようにした。</li><li><b>v0.1.18</b>（2026-10-10）ボムバレル・メタルドラゴン・クリスタルドラゴン・ドラゴンベビーのカード絵を新しくした。</li><li><b>v0.1.17</b>（2026-10-10）珍事【死者の帳簿】の取りこぼしを修正（墓荒らしで戻して4枚になった時も記録する）。</li><li><b>v0.1.16</b>（2026-10-10）武器商人に「闇の取引先」：倒されると、デッキから両替商か墓荒らしを場に呼ぶ。</li><li><b>v0.1.15</b>（2026-10-10）浪漫党に新メンバー「帳簿狂い」：相手のデッキを読み、珍事【死者の帳簿】だけを狙う。</li><li><b>v0.1.14</b>（2026-10-10）セメタリーロンダリングは2体がそろい直すたびに起きるように。新しい珍事【死者の帳簿】を追加。</li><li><b>v0.1.13</b>（2026-10-10）ゾンビに「亡者の意地」：仲間（場とデッキ）が少ないほど、場に出た時に強くなる。</li><li><b>v0.1.12</b>（2026-10-09）新しい役「セメタリーロンダリング」（両替商×墓荒らし）を追加。</li><li><b>v0.1.11</b>（2026-10-09）クリスタルLvアップで最大HPと同じだけ回復。魔法を使う前に、カードの下へ効果の説明を出すようにした。</li><li><b>v0.1.10</b>（2026-10-09）試合の終わりに、終了の音と「物語の幕は、閉じた。」、勝ち負けの理由を出すようにした。</li><li><b>v0.1.9</b>（2026-10-08）召喚獣の技のエフェクトを一つだけに（ダイスの窓の召喚獣の絵の上に出す）。ダイスが2個・3個の時に枠が切れていたのを直した。</li><li><b>v0.1.8</b>（2026-10-08）エフェクトを、同じ絵を何枚も撒く出し方から、スプライトのコマ割りどおりに一つずつ再生する出し方に変えた。</li><li><b>v0.1.7</b>（2026-10-08）効果音が鳴りっぱなしになるのを直した（長い効果音は2.4秒で小さくして止める）。</li><li><b>v0.1.6</b>（2026-10-08）神に挑む者たち：フラワーマンティス「蟷螂の斧」、ミノタウロス「迷宮の檻」、役「叛逆の徒」を追加。</li><li><b>v0.1.5</b>（2026-10-08）召喚獣の攻撃力を1.5倍に。召喚獣のHPバーを顕現前から数字付きで表示。メルトダウンの危険水域で召喚獣が赤く光って揺れるようにした。</li><li><b>v0.1.4</b>（2026-10-08）クリスタルLvが上がるたびに、クリスタルの最大HPが1000ずつ上がるようにした（最大8000）。</li><li><b>v0.1.3</b>（2026-10-07）モンスターの攻撃や魔法が自分に返った時、一試合に一度だけ戒めの言葉が出るようにした。</li><li><b>v0.1.2</b>（2026-10-07）役「愛の為に」で、黒騎士が王を討つ場面を見せるようにした。</li><li><b>v0.1.1</b>（2026-10-07）ゲーム開始前に絵と音をまとめて読み込むようにした（カードの絵が遅れて出るのを修正）。</li><li><b>v0.1.0</b>（2026-10-07）最初の無料テスト版。</li></ul></section>
+<section><h2>更新内容</h2><ul><li><b>v0.1.33</b>（2026-10-11）新しい役「語り部」（酒場の女主人×吟遊詩人）：おたがいのデッキが減るほど、両方の召喚獣の攻撃が上がる。酒場の女主人のカード絵を新しくした。</li><li><b>v0.1.32</b>（2026-10-11）海に生きる男達の役を7つ追加（海の男達・私掠免許・宿敵・海兵隊・艦隊出撃・母なる海に挑む・帰る港）。吟遊詩人のカード絵を新しくした。</li><li><b>v0.1.31</b>（2026-10-11）汚染海洋生態系を主軸にする役を8つ追加（汚れた潮・赤潮・深海の王国・海底の罠・藻の森・船底の穴・海獣の天敵・豚魚の群れ）。深海の鋏・海の槍騎兵・泡の行方・大喰らいを強化。おすすめデッキに「怪魚型」。</li><li><b>v0.1.30</b>（2026-10-11）新しい役「冥府魔道」（浪人×渡世人×用心棒）：自分のデッキから3枚を墓場へ送り、三人の攻撃とHPを大きく上げる。</li><li><b>v0.1.29</b>（2026-10-11）新カード14枚の絵が出ていなかったのを直した。</li><li><b>v0.1.28</b>（2026-10-11）新カード14枚：在野にシーフ・パン職人・モンク僧・吟遊詩人・浪人・渡世人・酒場の女主人、汚染海洋生態系にアクアキャット・シップワーム・ビッグタスク・ポークフィッシュ・噛みつき貝・海藻魚・装甲海月。役を6つ追加。</li><li><b>v0.1.27</b>（2026-10-11）お知らせウインドウをバトルラインの上へ。AIとの対戦では、相手の正体や狙いを試合中に明かさないようにした。</li><li><b>v0.1.26</b>（2026-10-10）バトルラインの1行の知らせをやめて、ドラクエ風のウインドウにまとめた（役の掲示板は今まで通り）。</li><li><b>v0.1.25</b>（2026-10-10）ドラクエ風のお知らせウインドウ：誰が何をして何が起きたかを、画面下に文で出すようにした。</li><li><b>v0.1.24</b>（2026-10-10）試合後の結果画面に「相手の手の内を見る」：相手のデッキ・狙い・出番のなかったカードが見られる。</li><li><b>v0.1.23</b>（2026-10-10）獣断ち派に新メンバー「変身殺し」：変身の材料を全体攻撃でまとめて崩し、墓場を奪って復活させない。</li><li><b>v0.1.22</b>（2026-10-10）新しいAI派閥「変身愛好家」：変身の材料ばかりでデッキを組み、変身が起きると大喜びする。</li><li><b>v0.1.21</b>（2026-10-10）新しいAI派閥「荒波の海賊団」：汚染海洋生態系で組み、クリスタルを豪快に狙う。</li><li><b>v0.1.20</b>（2026-10-10）闇の商売の輪：武器商人→両替商→墓荒らし→武器商人。倒れると、輪の次の者がデッキから後を継ぐ。</li><li><b>v0.1.19</b>（2026-10-10）自分のモンスターを引っ張って、攻撃したい相手に重ねて離すと攻撃できるようにした。</li><li><b>v0.1.18</b>（2026-10-10）ボムバレル・メタルドラゴン・クリスタルドラゴン・ドラゴンベビーのカード絵を新しくした。</li><li><b>v0.1.17</b>（2026-10-10）珍事【死者の帳簿】の取りこぼしを修正（墓荒らしで戻して4枚になった時も記録する）。</li><li><b>v0.1.16</b>（2026-10-10）武器商人に「闇の取引先」：倒されると、デッキから両替商か墓荒らしを場に呼ぶ。</li><li><b>v0.1.15</b>（2026-10-10）浪漫党に新メンバー「帳簿狂い」：相手のデッキを読み、珍事【死者の帳簿】だけを狙う。</li><li><b>v0.1.14</b>（2026-10-10）セメタリーロンダリングは2体がそろい直すたびに起きるように。新しい珍事【死者の帳簿】を追加。</li><li><b>v0.1.13</b>（2026-10-10）ゾンビに「亡者の意地」：仲間（場とデッキ）が少ないほど、場に出た時に強くなる。</li><li><b>v0.1.12</b>（2026-10-09）新しい役「セメタリーロンダリング」（両替商×墓荒らし）を追加。</li><li><b>v0.1.11</b>（2026-10-09）クリスタルLvアップで最大HPと同じだけ回復。魔法を使う前に、カードの下へ効果の説明を出すようにした。</li><li><b>v0.1.10</b>（2026-10-09）試合の終わりに、終了の音と「物語の幕は、閉じた。」、勝ち負けの理由を出すようにした。</li><li><b>v0.1.9</b>（2026-10-08）召喚獣の技のエフェクトを一つだけに（ダイスの窓の召喚獣の絵の上に出す）。ダイスが2個・3個の時に枠が切れていたのを直した。</li><li><b>v0.1.8</b>（2026-10-08）エフェクトを、同じ絵を何枚も撒く出し方から、スプライトのコマ割りどおりに一つずつ再生する出し方に変えた。</li><li><b>v0.1.7</b>（2026-10-08）効果音が鳴りっぱなしになるのを直した（長い効果音は2.4秒で小さくして止める）。</li><li><b>v0.1.6</b>（2026-10-08）神に挑む者たち：フラワーマンティス「蟷螂の斧」、ミノタウロス「迷宮の檻」、役「叛逆の徒」を追加。</li><li><b>v0.1.5</b>（2026-10-08）召喚獣の攻撃力を1.5倍に。召喚獣のHPバーを顕現前から数字付きで表示。メルトダウンの危険水域で召喚獣が赤く光って揺れるようにした。</li><li><b>v0.1.4</b>（2026-10-08）クリスタルLvが上がるたびに、クリスタルの最大HPが1000ずつ上がるようにした（最大8000）。</li><li><b>v0.1.3</b>（2026-10-07）モンスターの攻撃や魔法が自分に返った時、一試合に一度だけ戒めの言葉が出るようにした。</li><li><b>v0.1.2</b>（2026-10-07）役「愛の為に」で、黒騎士が王を討つ場面を見せるようにした。</li><li><b>v0.1.1</b>（2026-10-07）ゲーム開始前に絵と音をまとめて読み込むようにした（カードの絵が遅れて出るのを修正）。</li><li><b>v0.1.0</b>（2026-10-07）最初の無料テスト版。</li></ul></section>
 <section><h2>素材をお借りしたところ</h2><ul><li>音楽：<a href="https://opentracks.com/" target="_blank" rel="noopener" style="color:var(--gold)">OpenTracks</a></li><li>効果音：<a href="https://soundeffect-lab.info/" target="_blank" rel="noopener" style="color:var(--gold)">効果音ラボ</a></li><li>エフェクト：<a href="https://pipoya.net/" target="_blank" rel="noopener" style="color:var(--gold)">ぴぽや</a></li></ul></section>
 <section><h2>このテストについて</h2><p class="note">開発中のゲームを無料で試してもらう版。課金・広告はなし。遊んでみて、分かりにくかったところ、面白かったところを、Xでハッシュタグ #CCBテストプレイ を付けて教えてほしい。もらった声をもとに直していく。</p></section>
 <footer>© 加藤隆基 ／ ZoharTech。ゲーム内の絵・文章・音の著作権は作者と各素材の作者にあります。無断転載・再配布は禁止。</footer>
